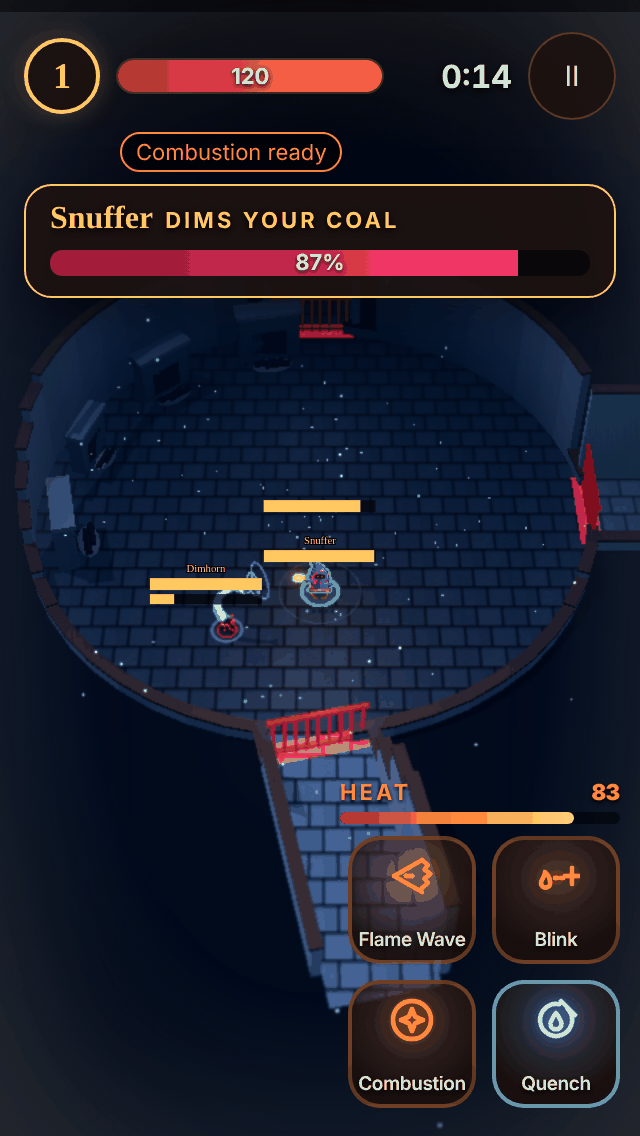
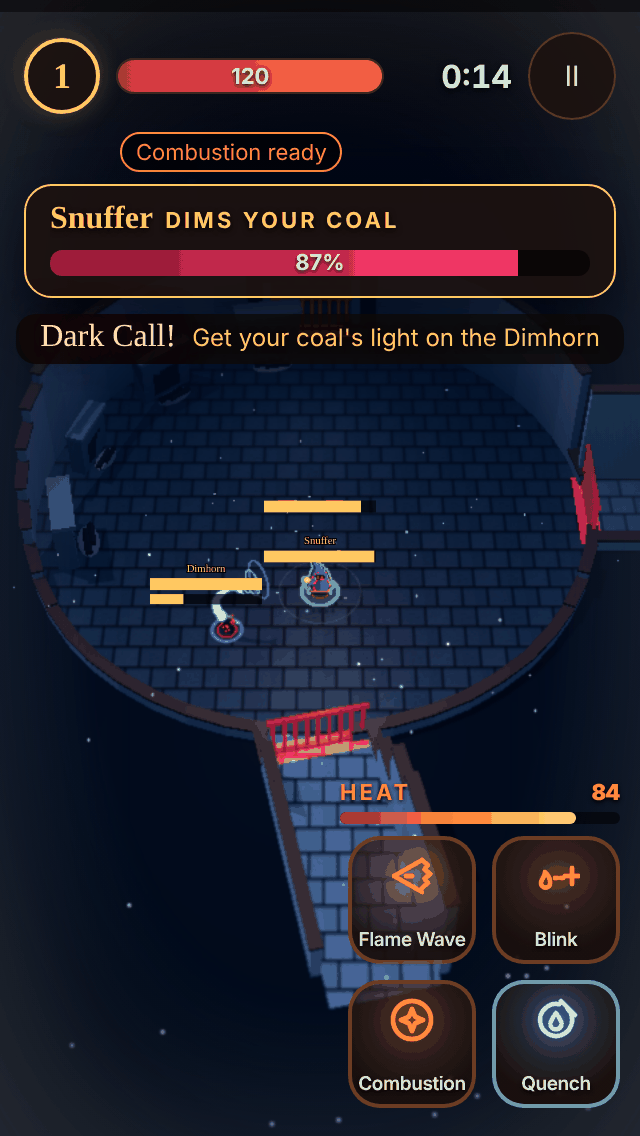
Coldmarrow: the Dark Call gets a warning line; Thin Ice says she takes more damage (#726)
* Phone pass, Coldmarrow Halls: a foe's 3D bar stays over it when foes bunch up; shorter Thin Ice line

drawLabels3d stepped a bar up over any bar within a fixed 96 px box, so a Dimhorn 50 px from two Snuffers had its bar
75 px above it. The box is now the bar or its measured name, and an overlap of 14 px or less nudges the bar sideways.
Thin Ice's warning is shortened (design) so it fits the phone warning line. Adds tools/coldhallsshots.cjs and
docs/ux/coldmarrow-halls.

Claude-Session: https://claude.ai/code/session_012zrft3SJGnb4zXTjjJacoS

* Dark Call gets its warning line; Thin Ice says she takes more damage (design)

Claude-Session: https://claude.ai/code/session_012zrft3SJGnb4zXTjjJacoS

* Thin Ice: design's shorter line, whole on a 320 px phone

Claude-Session: https://claude.ai/code/session_012zrft3SJGnb4zXTjjJacoS

---------

diff --git a/client/GameScene.ts b/client/GameScene.ts
@@ -1334,8 +1334,9 @@ export class GameScene extends Phaser.Scene {
           else if (ev.name === 'Scatter Embers') this.hud.warn('Scatter Embers!', 'Spread out: keep your ring off everyone else');
           else if (ev.name === 'Snuff') this.hud.warn('Snuff!', `${w.abilities[3].name} it, or every Hearthcoal dims`);
           else if (ev.name === 'Long Night') this.hud.warn('The Long Night!', w.heroes.length > 1 ? "It can't be stopped. Huddle up in the brightest light: every ally close by takes some of the cold" : "It can't be stopped. Get into the brightest light you can");
+          else if (ev.name === 'Dark Call') this.hud.warn('Dark Call!', "Get your coal's light on the Dimhorn");
           else if (ev.name === 'Snuffer Tide') this.hud.warn('Snuffer Tide!', 'Kill the Snuffers before they drink your light');
-          else if (ev.name === 'Thin Ice') this.hud.warn('Thin Ice!', "The river cracks. Stay off open water. She's stuck and hurts more while it's open.");
+          else if (ev.name === 'Thin Ice') this.hud.warn('Thin Ice!', "The river cracks. Stay off open water. She's stuck and takes more damage.");
           else if (ev.name === 'Frost Lace' && !this.laceShown) {
             // Once a fight: the Weaver casts it every few seconds, and its cast bar says the rest.
             this.laceShown = true;

diff --git a/docs/ux/coldmarrow-halls/README.md b/docs/ux/coldmarrow-halls/README.md
@@ -11,9 +11,9 @@ wakes, the tool takes the hero off autopilot, so the call goes off.
   75px above it (`before-p320-3-dark-call`). The box is now the bar, or its measured name where that is wider, and an
   overlap of 14px or less nudges the bar sideways instead of up (`p320-3-dark-call`).
 
-## Reported, not changed
+- The Dark Call now has a warning line (design's text): "Dark Call! Get your coal's light on the Dimhorn" (`p320-3-dark-call`).
 
-- The Dark Call shows no warning line and no cast bar unless the Dimhorn is targeted. The signs are its horn's rings
-  and the small cast bar under its health bar.
+## Reported, not changed (passed to visuals)
+
 - The coal light round the hero reads as a faint thin ring on the darker floors.
 - Rimehounds are near-black on the dark floor. You see their bars and a speck of red ring (`l568-4-hounds-in`).
